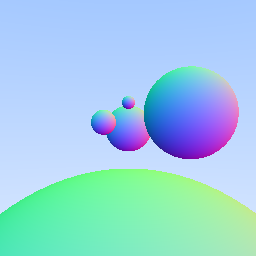
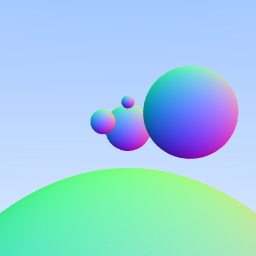
A4: random sampling for each pixel

diff --git a/A4/A4.cpp b/A4/A4.cpp
@@ -33,7 +33,10 @@ float hitSphere(const vec3 &center, float radius, const Ray &ray) {
 }
 
 
-vec3 rayColor(const Ray &ray, SceneNode *root) {
+vec3 rayColor(
+	const Ray &ray, 
+	SceneNode *root
+	) {
 	// if (hitSphere(vec3(0, 0, 750), 10, ray)) {
 	// 	return vec3(1.0, 0.0, 0.0);
 	// }
@@ -52,6 +55,7 @@ vec3 rayColor(const Ray &ray, SceneNode *root) {
 
 		if (geometryNode->m_primitive->hit(ray, 0.0, closestSoFar, tempRecord)) {
 			hitAnything = true;
+			tempRecord.material = geometryNode->m_material;
 			closestSoFar = tempRecord.t;
 			record = tempRecord;
 		}
@@ -71,6 +75,7 @@ vec3 rayColor(const Ray &ray, SceneNode *root) {
 	// Background
 	vec3 unitDirection = normalize(ray.getDirection());
 	float t = 0.5 * (unitDirection.y + 1.0);
+	// return (t) * vec3(0.0, 0.0, 0.0) + (1.0 - t) * vec3(0.5, 0.7, 1.0);
 	return (1.0-t) * vec3(1.0, 1.0, 1.0) + (t) * vec3(0.5, 0.7, 1.0);
 	// return (1.0-t) * vec3(0.5, 0.5, 0.1) + (t) * vec3(0.3, 0.3, 1.0);
 }
@@ -111,11 +116,13 @@ void A4_Render(
 	std::cout << "\t}" << std::endl;
 	std:: cout <<")" << std::endl;
 
-	size_t h = image.height();
-	size_t w = image.width();
+	size_t ny = image.height();
+	size_t nx = image.width();
 
-	// h = 100;
-	// w = 200;
+	size_t ns = 16;
+
+	// ny = 100;
+	// nx = 200;
 
 	// // Specify the (in world coordinate) parameters that define the camera
 	// vec3 lowerLeftCorner(-2.0, -1.0, -1.0);
@@ -127,18 +134,33 @@ void A4_Render(
 	vec3 vz = normalize(view-eye);
 	vec3 vx = normalize(cross(up, vz));
 	vec3 vy = cross(vz, vx);
-	float d = (h / 2) / tan(radians(fovy / 2));
+	float d = (ny / 2) / tan(radians(fovy / 2));
 
-	vec3 lowerLeftCorner = vz*d - vx*((float)h/2) - vy*((float)h/2);
+	vec3 lowerLeftCorner = vz*d - vx*((float)ny/2) - vy*((float)ny/2);
 
-	for (uint y = 0; y < h; ++y) {
-		for (uint x = 0; x < w; ++x) {
-			// float u = float(x) / float(w);
-			// float v = float(h-y) / float(h);
+	for (uint y = 0; y < ny; ++y) {
+		for (uint x = 0; x < nx; ++x) {
+			// float u = float(x) / float(nx);
+			// float v = float(ny-y) / float(ny);
 
-			Ray ray(eye, lowerLeftCorner + (float)(h-y)*vy + (float)(w-x)*vx);
+			vec3 color(0.0, 0.0, 0.0);
 
-			vec3 color = rayColor(ray, root);
+			if (ns) {
+				for (uint s = 0; s < ns; s++) {
+					float u = float(x + drand48());
+					float v = float(y + drand48());
+
+					Ray ray(eye, lowerLeftCorner + (float)(nx-u)*vx + (float)(ny-v)*vy);
+					vec3 p = ray.pointAtParameter(2.0);
+					color += rayColor(ray, root);
+				}
+
+				color /= float(ns);
+			} else {
+				Ray ray(eye, lowerLeftCorner + (float)(nx-x)*vx + (float)(ny-y)*vy);
+				vec3 p = ray.pointAtParameter(2.0);
+				color = rayColor(ray, root);
+			}
 
 			// // Red: 
 			// image(x, y, 0) = 0.5f;

diff --git a/A4/A4.hpp b/A4/A4.hpp
@@ -31,6 +31,9 @@ void A4_Render(
 );
 
 // Ray color
-glm::vec3 rayColor(const Ray &r, SceneNode *root);
+glm::vec3 rayColor(
+	const Ray &r, 
+	SceneNode *root
+	);
 
 float hitSphere(const glm::vec3 &center, float radius, const Ray &ray);
